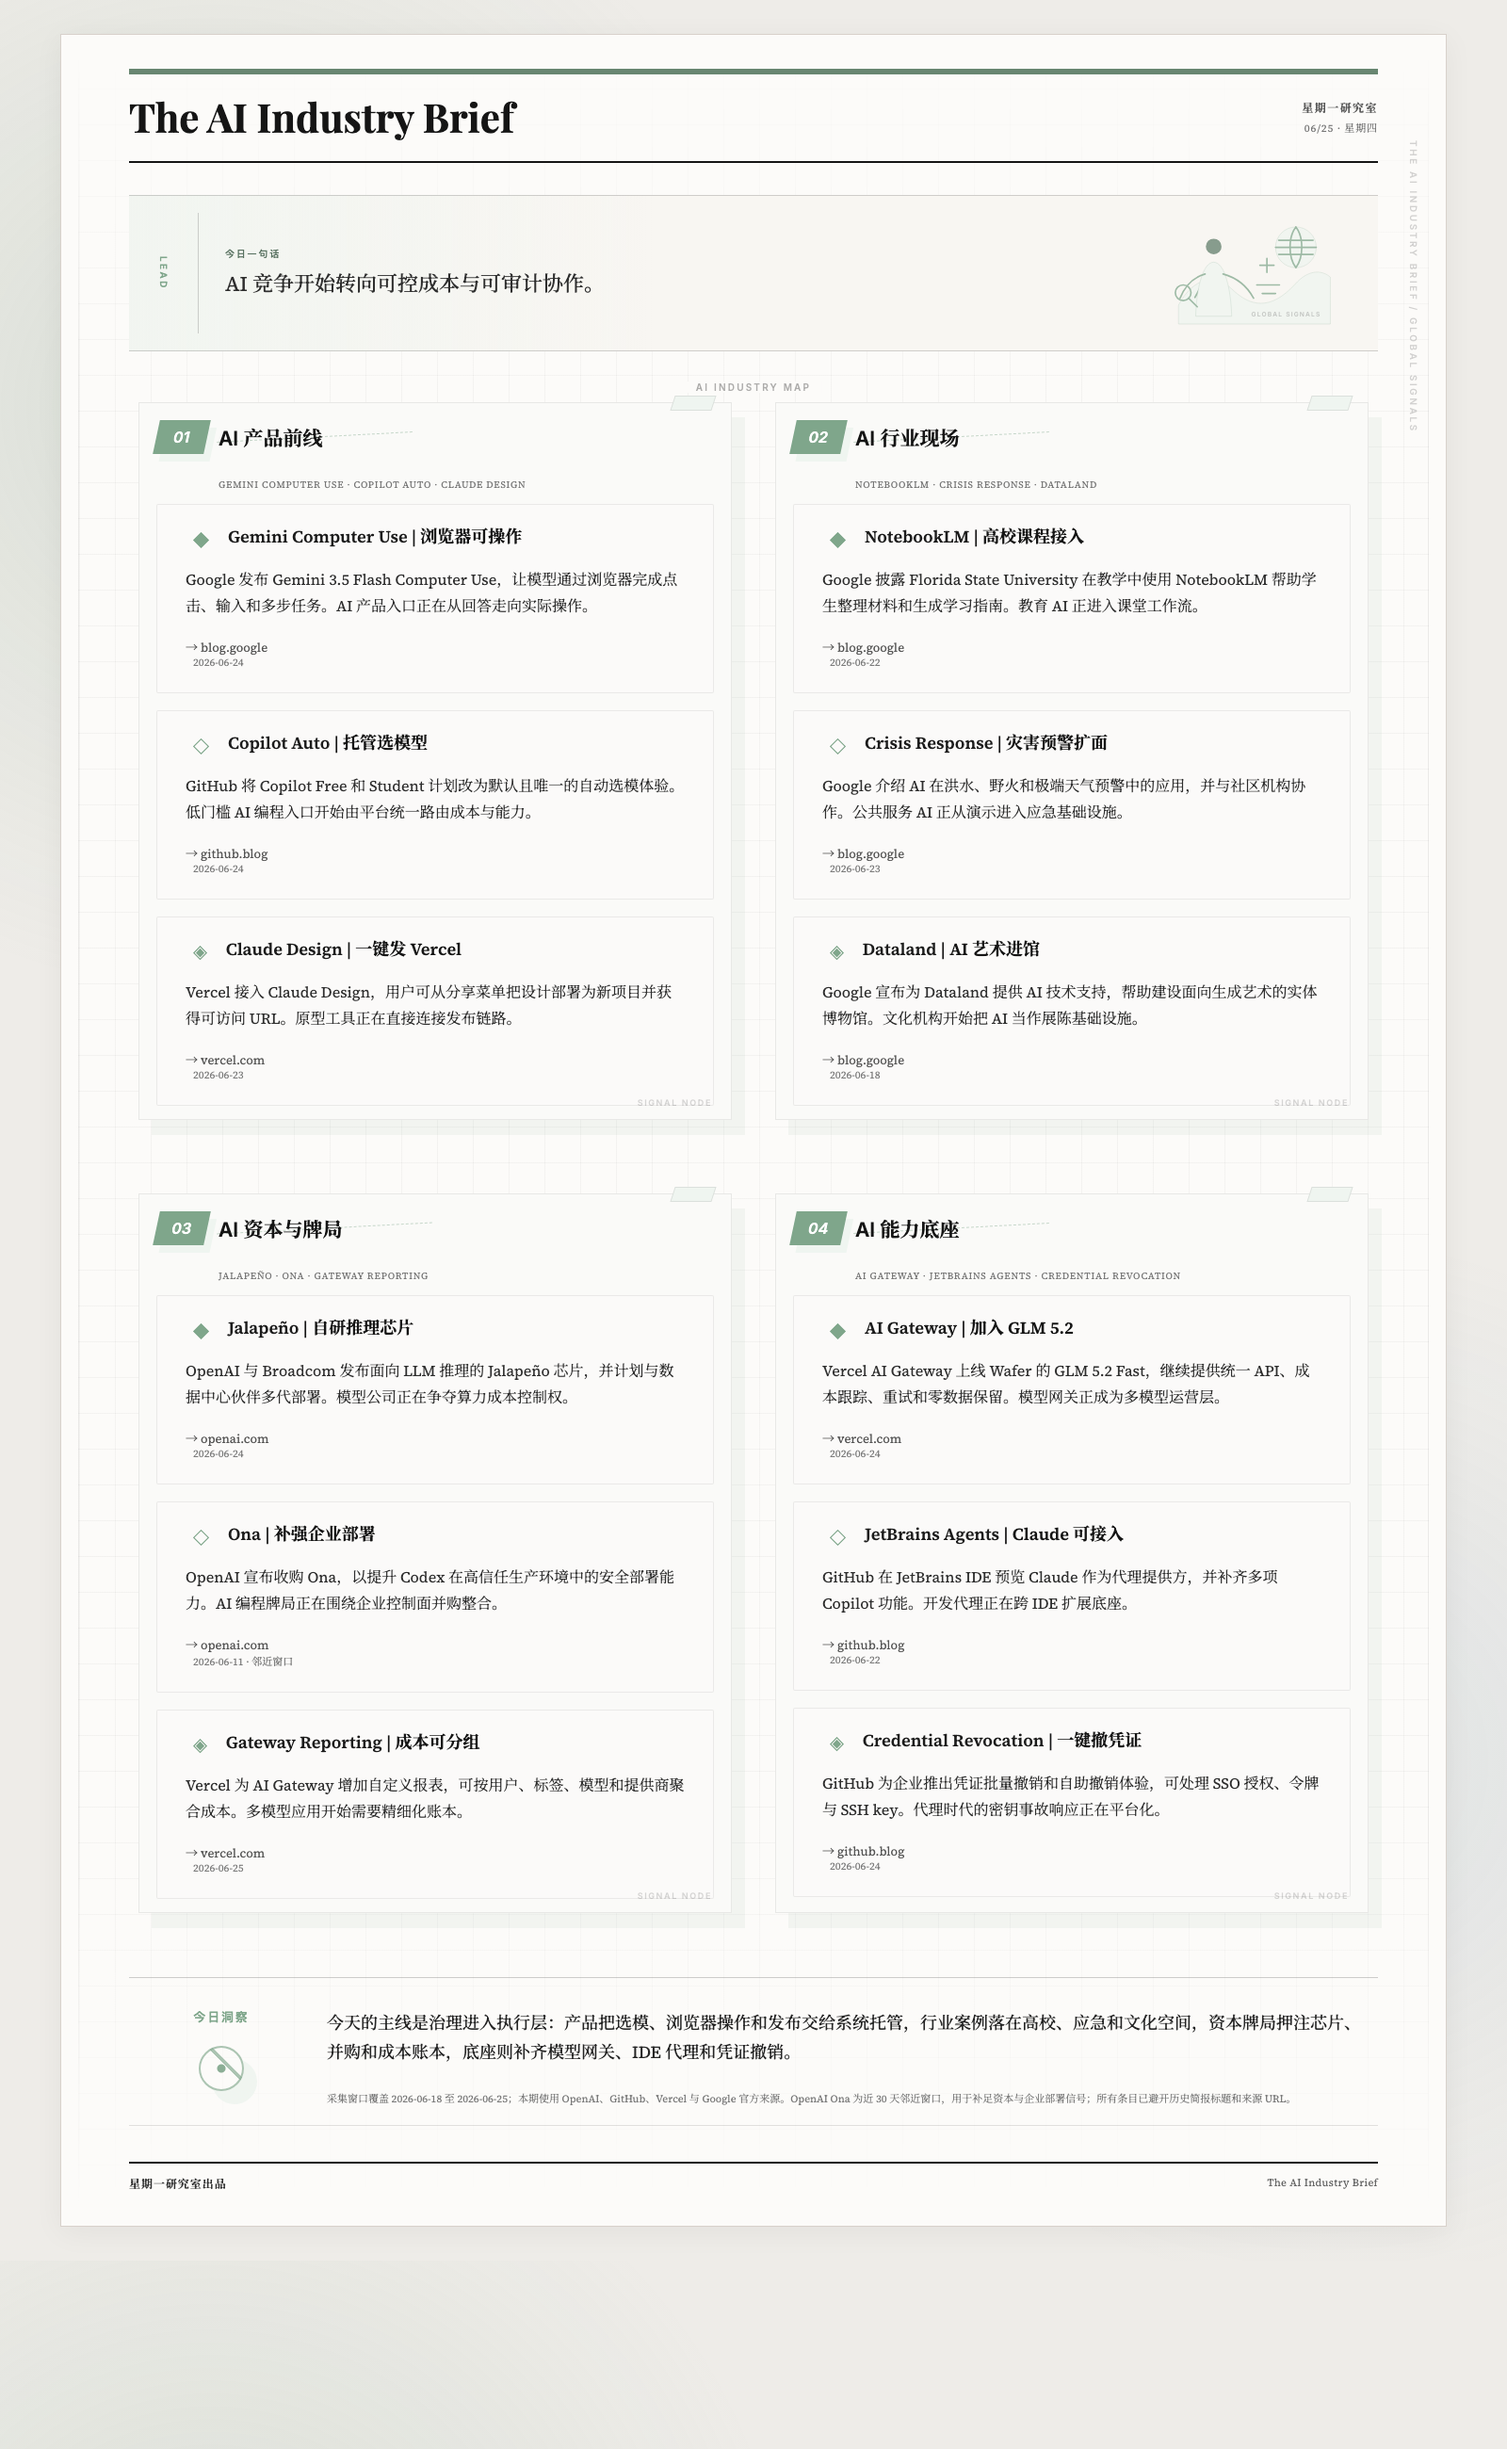
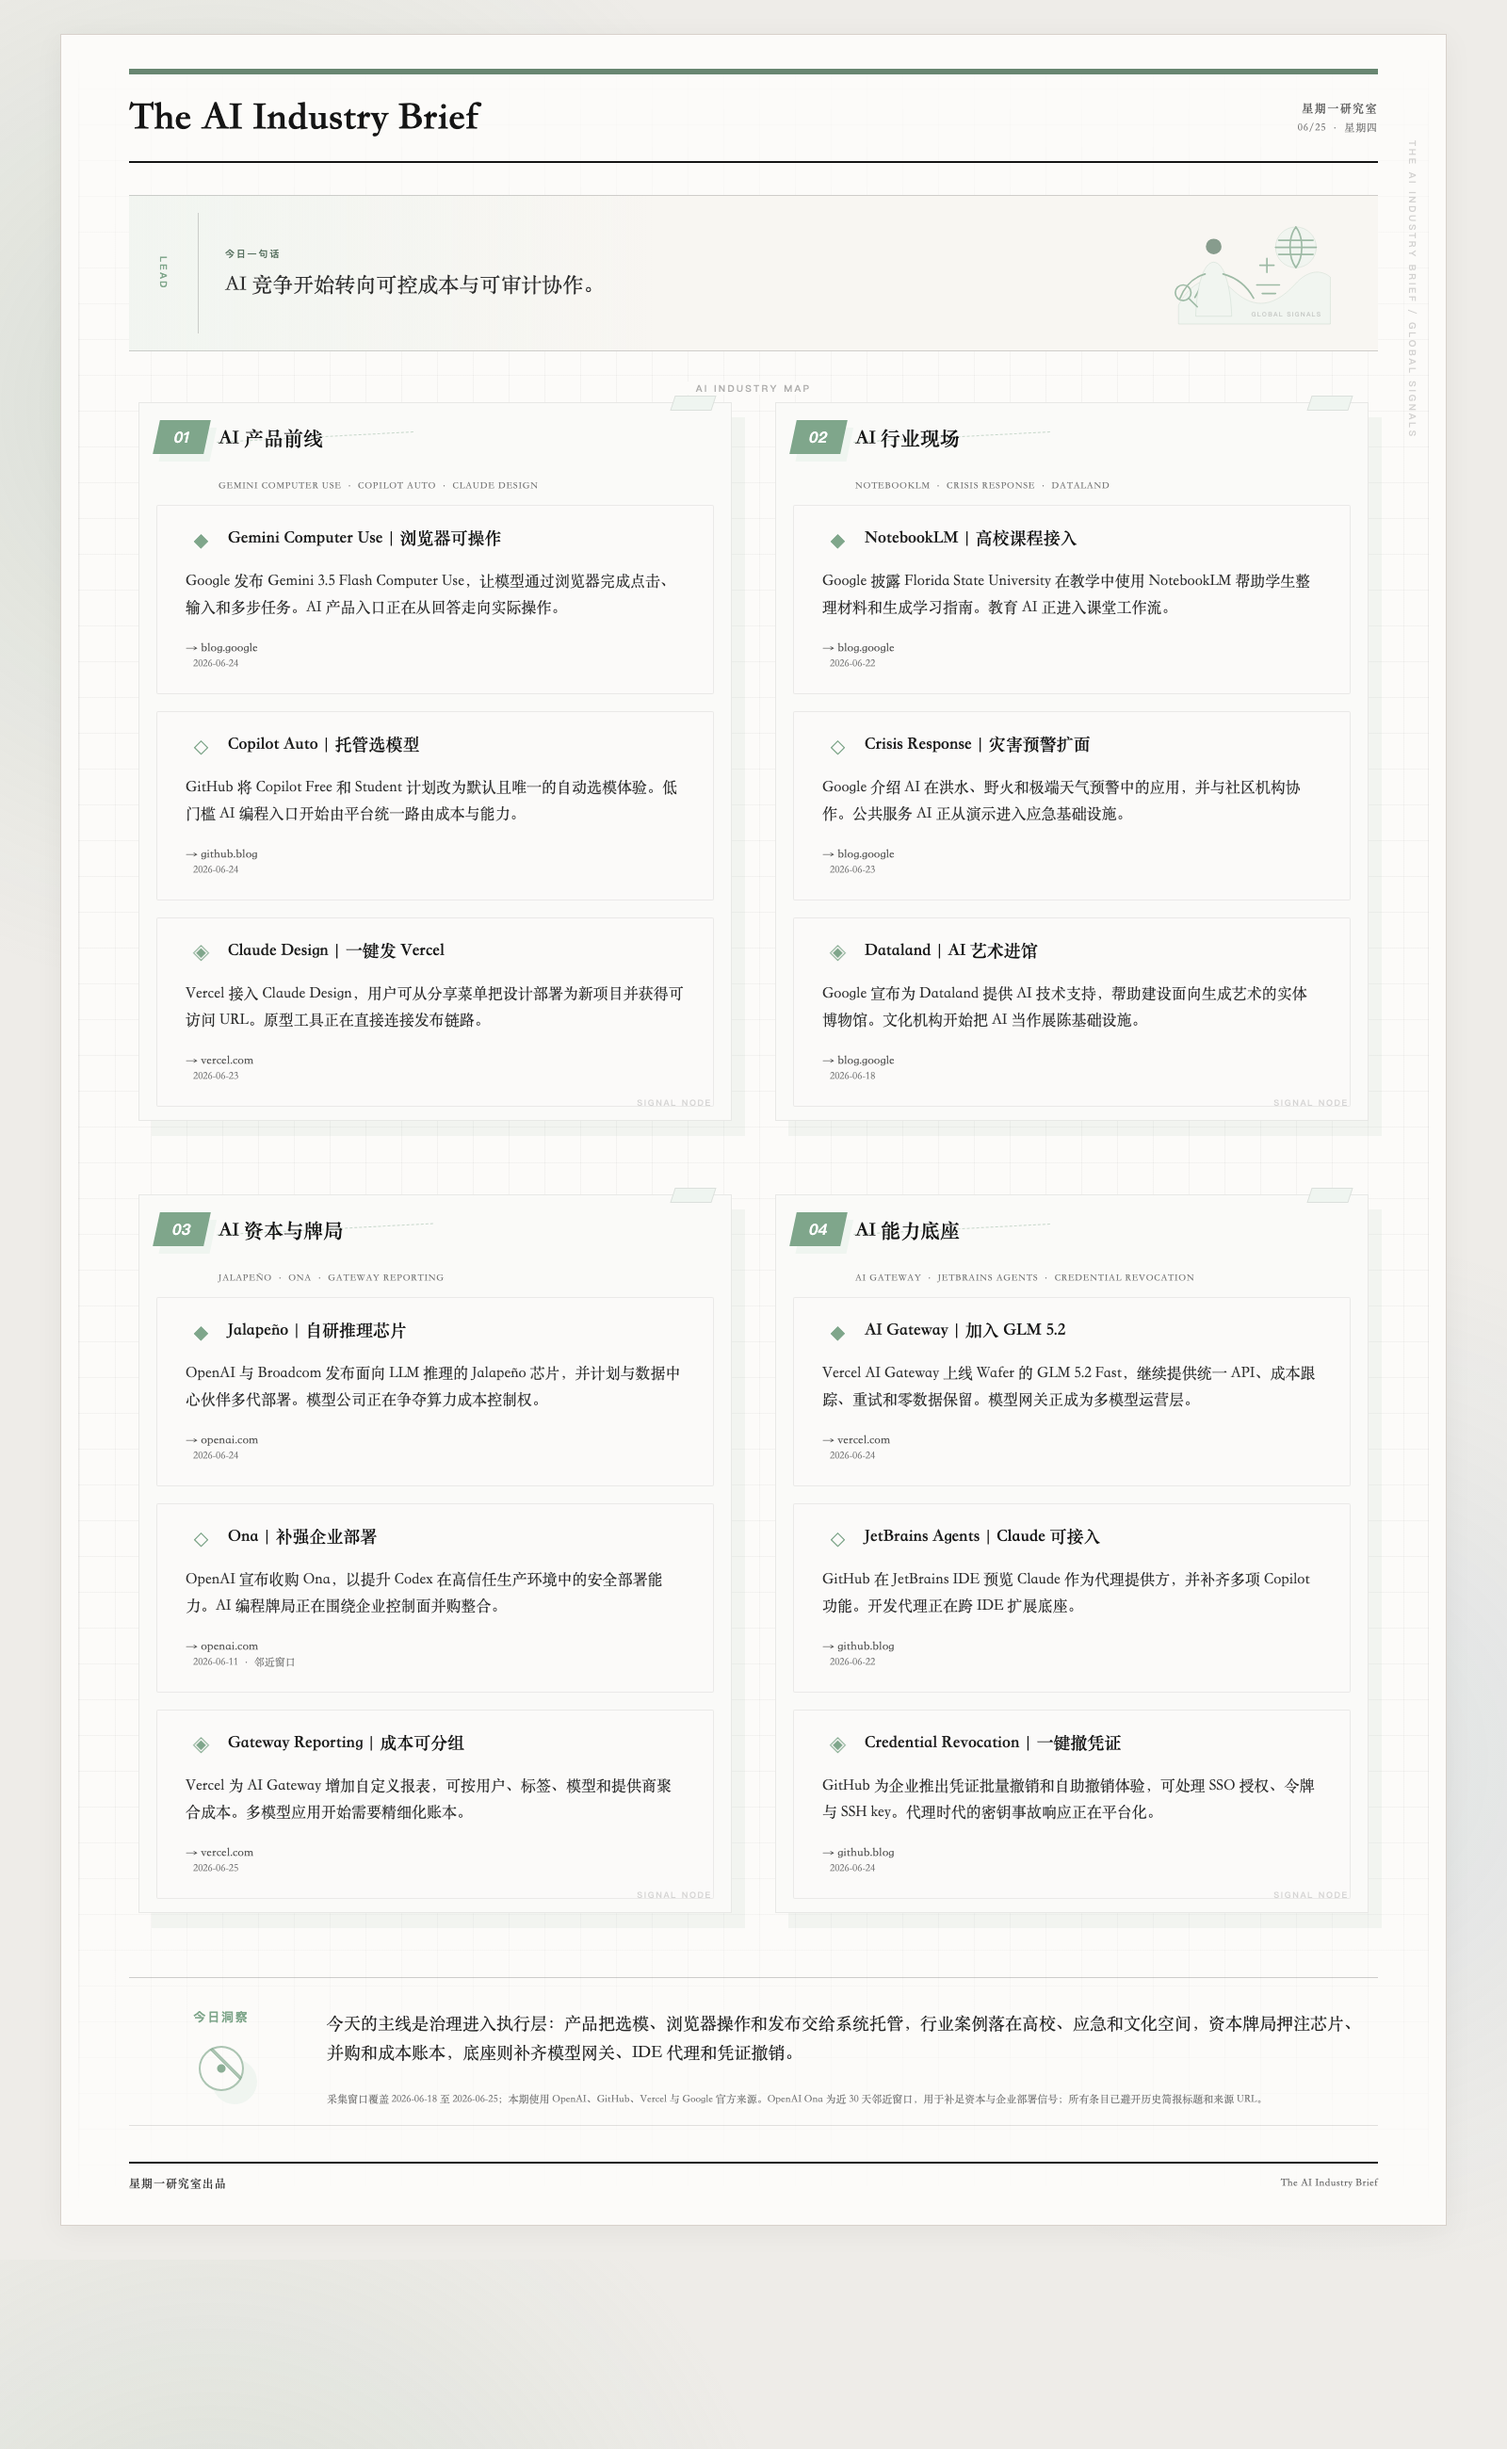
Fix Feishu brief image cropping

diff --git a/workers/feishu-brief-push/scripts/post-publish-send.js b/workers/feishu-brief-push/scripts/post-publish-send.js
@@ -464,24 +464,43 @@ async function findChrome() {
 }
 
 async function captureScreenshot({ date, detailUrl, imagePath }) {
-  const chrome = await findChrome();
   fs.mkdirSync(path.dirname(imagePath), { recursive: true });
 
-  await execFileAsync(
-    chrome,
-    [
-      "--headless=new",
-      "--disable-gpu",
-      "--hide-scrollbars",
-      `--window-size=${DEFAULT_SCREENSHOT_WIDTH},${DEFAULT_SCREENSHOT_HEIGHT}`,
-      `--screenshot=${imagePath}`,
-      `${detailUrl}?post_publish_image=${Date.now()}`,
-    ],
-    {
-      cwd: repoRoot,
-      maxBuffer: 1024 * 1024 * 4,
-    },
-  );
+  if (await commandExists("npx")) {
+    await execFileAsync(
+      "npx",
+      [
+        "--yes",
+        "playwright@latest",
+        "screenshot",
+        "--full-page",
+        `--viewport-size=${DEFAULT_SCREENSHOT_WIDTH},${DEFAULT_SCREENSHOT_HEIGHT}`,
+        `${detailUrl}?post_publish_image=${Date.now()}`,
+        imagePath,
+      ],
+      {
+        cwd: repoRoot,
+        maxBuffer: 1024 * 1024 * 4,
+      },
+    );
+  } else {
+    const chrome = await findChrome();
+    await execFileAsync(
+      chrome,
+      [
+        "--headless=new",
+        "--disable-gpu",
+        "--hide-scrollbars",
+        `--window-size=${DEFAULT_SCREENSHOT_WIDTH},${DEFAULT_SCREENSHOT_HEIGHT}`,
+        `--screenshot=${imagePath}`,
+        `${detailUrl}?post_publish_image=${Date.now()}`,
+      ],
+      {
+        cwd: repoRoot,
+        maxBuffer: 1024 * 1024 * 4,
+      },
+    );
+  }
 
   const stat = fs.statSync(imagePath);
   if (stat.size < 10000) {

diff --git a/workers/feishu-brief-push/src/index.js b/workers/feishu-brief-push/src/index.js
@@ -751,6 +751,7 @@ async function capturePageScreenshot({ env, url }) {
       },
       screenshotOptions: {
         type: "png",
+        fullPage: true,
       },
       gotoOptions: {
         waitUntil: "load",
@@ -982,6 +983,7 @@ function buildFeishuCard({ archiveUrl, detailUrl, date, headline, corePoint, ima
       {
         tag: "img",
         img_key: imageKey,
+        mode: "fit_horizontal",
         alt: {
           tag: "plain_text",
           content: `The AI Industry Brief ${date}`,
@@ -1094,6 +1096,7 @@ function buildReportCard({ reportUrl, title, label, imageKey }) {
       {
         tag: "img",
         img_key: imageKey,
+        mode: "fit_horizontal",
         alt: {
           tag: "plain_text",
           content: title,

diff --git a/workers/feishu-brief-push/README.md b/workers/feishu-brief-push/README.md
@@ -51,7 +51,7 @@ Authorization: Bearer <MANUAL_TRIGGER_TOKEN>
 
 - 站点基址：`https://mondaylab.github.io/ai-industry-brief`
 - 时区：`Asia/Shanghai`
-- 截图宽高：`1600 x 2200`
+- 截图宽度：`1600`；截图使用整页模式，`SCREENSHOT_HEIGHT` 仅作为初始视口高度
 - 默认 Cron：`40 22 * * *`，并在失败后每 30 分钟巡逻一次
 
 `40 22 * * *` 对应北京时间每天 `06:40`。Cloudflare Cron 使用 UTC，因此这里已经完成时区换算。后续 `10,40 23,0,1 * * *` 对应北京时间 `07:10`、`07:40`、`08:10`、`08:40`、`09:10`、`09:40` 的巡逻触发，并合并为单个 Cron trigger 以避开 Cloudflare trigger 数量限制。
@@ -135,7 +135,7 @@ MANUAL_TRIGGER_TOKEN=<MANUAL_TRIGGER_TOKEN> \
   npm --prefix workers/feishu-brief-push run post-publish-send -- --date 2026-05-29
 ```
 
-这个脚本会先等待 GitHub Pages 部署完成再触发飞书：当本地已有 `share-images/YYYY-MM-DD.png` 时，会确认首页包含当天详情链接、详情页日期正确、公开 PNG 已返回 `image/png` 后才调用生产 Worker 的 `/send`。如果本地还没有 PNG，则先等首页和详情页就绪；当 Worker 截图链路失败时，再用本机 Chrome 截取详情页、提交并推送 `share-images/YYYY-MM-DD.png`，等该 PNG 在 Pages 生效后调用 `/send-image-url` 发送图片卡。
+这个脚本会先等待 GitHub Pages 部署完成再触发飞书：当本地已有 `share-images/YYYY-MM-DD.png` 时，会确认首页包含当天详情链接、详情页日期正确、公开 PNG 已返回 `image/png` 后才调用生产 Worker 的 `/send`。如果本地还没有 PNG，则先等首页和详情页就绪；当 Worker 截图链路失败时，优先用 Playwright 整页截图生成详情页 PNG，提交并推送 `share-images/YYYY-MM-DD.png`，等该 PNG 在 Pages 生效后调用 `/send-image-url` 发送图片卡。飞书图片卡使用 `fit_horizontal` 展示模式，避免长图在卡片中被裁切。
 
 周报生成后触发：
 
